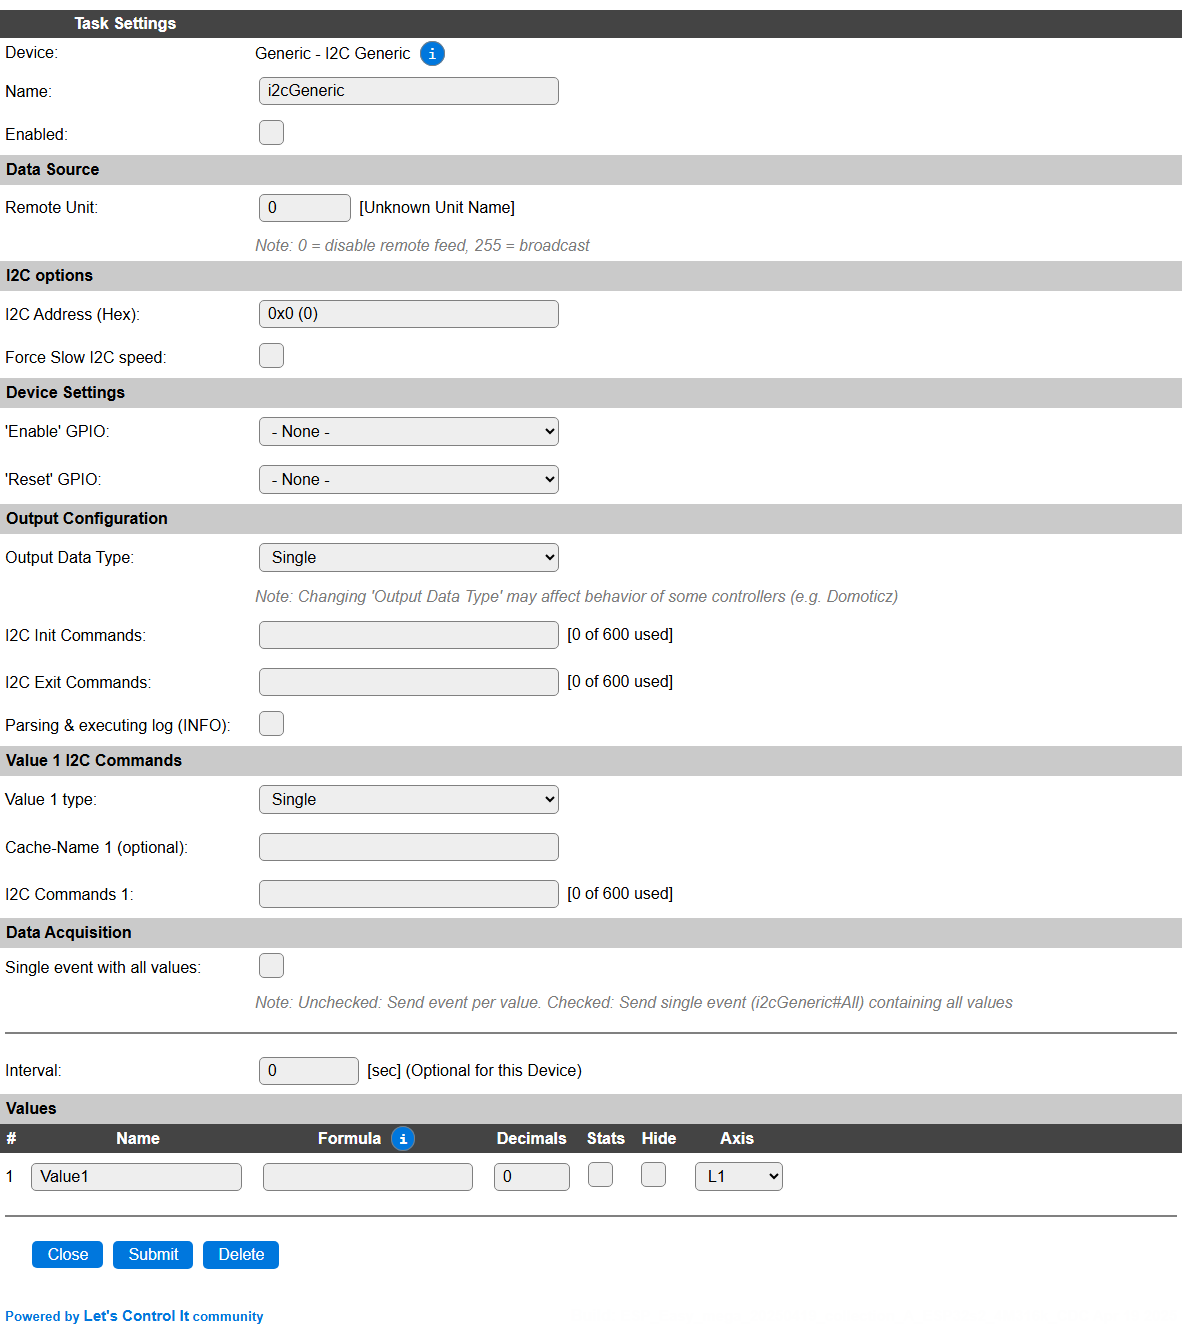
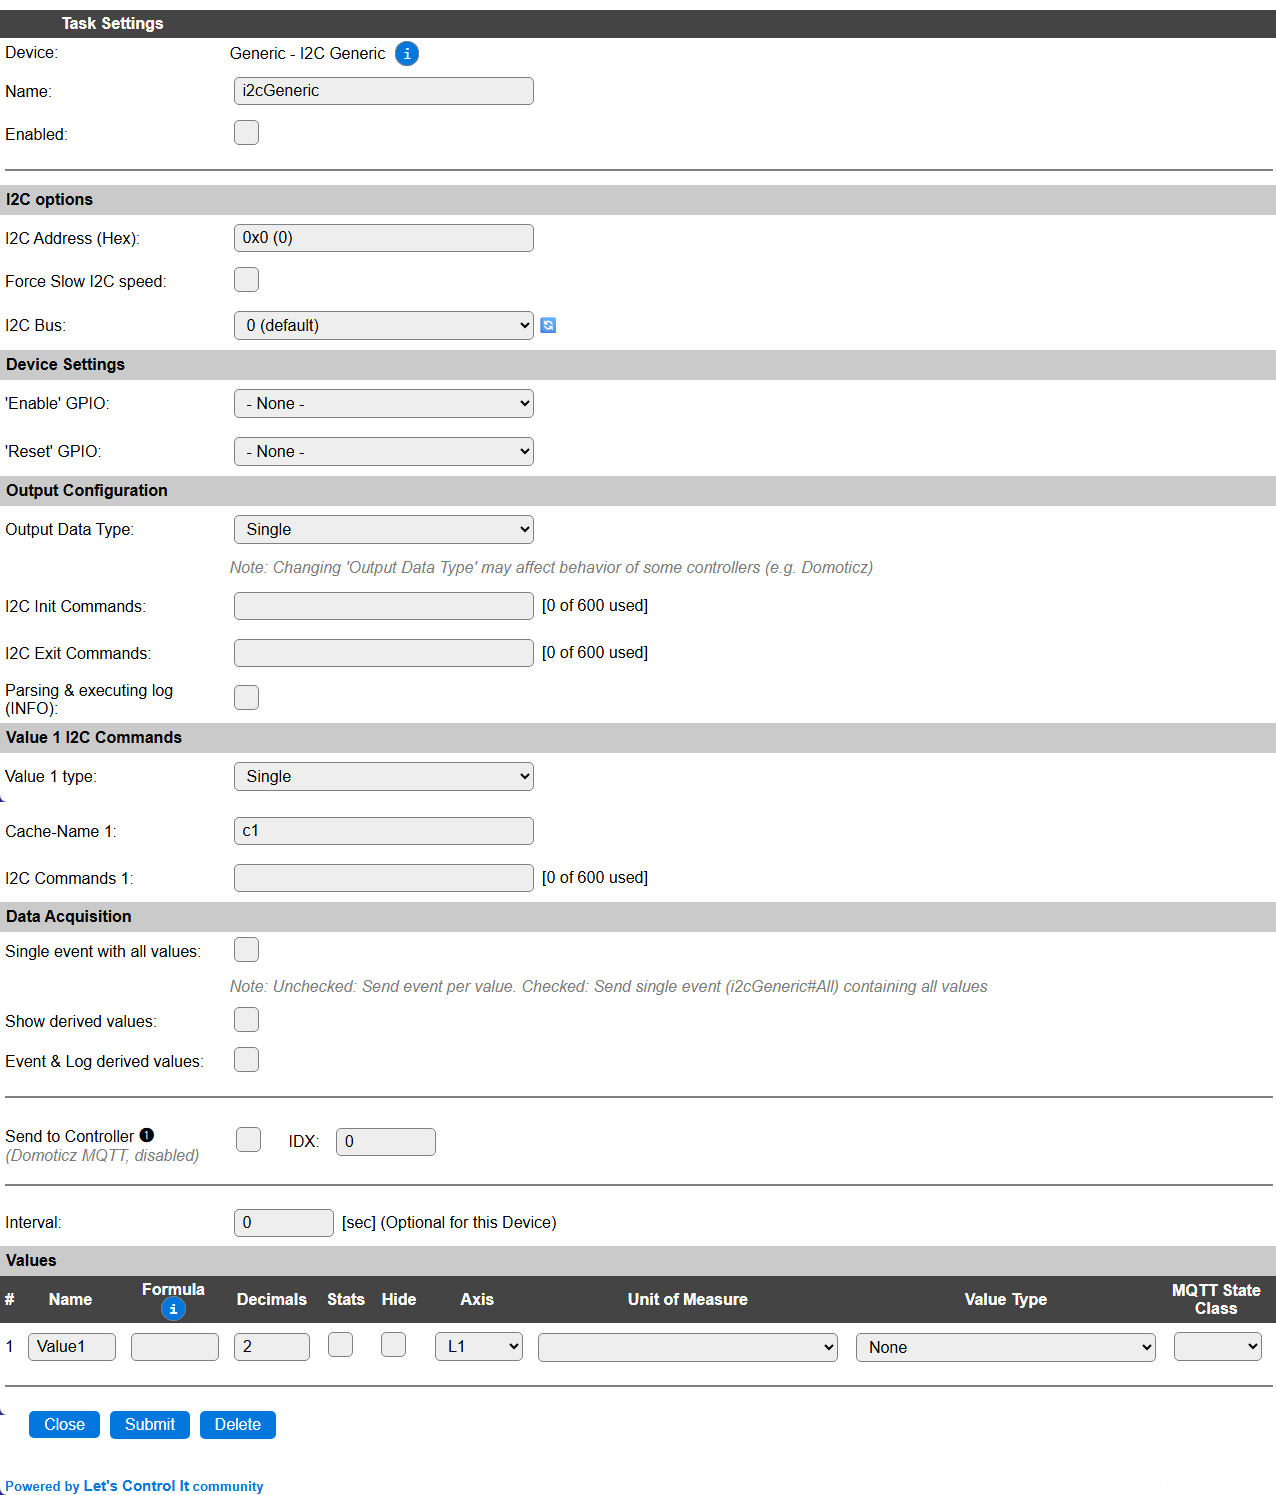
[P180] Set Cache-name field by default when empty for better performance, docs updated

diff --git a/docs/source/Plugin/P180.rst b/docs/source/Plugin/P180.rst
@@ -82,7 +82,7 @@ For each Value1 .. Value4 output, depending on the **Output Data Type** setting,
 
 * **Value x type**: Here you can select a specific output type for each Value. This shows a selection of the **Output Data Type** selector, but only the single-value types. This will also be used for sending to Domoticz controllers and for MQTT Auto-Discovery.
 
-* **Cache-Name x (optional)**: When set to a unique name (for this task), the parsed & pre-processed command sequence will be stored in a memory-cache, to *significantly* improve the speed of the plugin in runtime. When not set, the command sequence will be parsed every time the task is run (**Interval** setting or ``taskRun`` command). To be able to use event processing for 1ps, 10ps of 50ps, setting a Cache-Name is required!
+* **Cache-Name x**: Should be set to a unique name (for this task), so the parsed & pre-processed command sequence will be stored in a memory-cache, to *significantly* improve the speed of the plugin in runtime. Initially the Cache-name is set to ``c1`` .. ``c4`` (depending on the number of values selected) and can be changed as desired. When empty it will be reset to ``cX`` again.
 
 * **I2C Commands x**: The sequence of commands to execute for this value. Nothing will be done if this is empty. The corresponding Value output can be set from another I2C Commands sequence. The currently used vs. the available space is shown next to the field. I2C Commands are explained below.
 
@@ -373,7 +373,7 @@ The plugin should be configured with these settings:
 
 * **Output Data Type**: ``Single``
 
-* **Cache-Name 1 (optional)**: Fill with a useable name, f.e. ``qrsize``, so the I2C Command sequence is cached for much improved execution-performance. And the additional de-duplication uses the ``1ps`` event-interval, and the sequence must be cached for that event to work.
+* **Cache-Name 1**: Fill with a useable name, f.e. ``qrsize``, so the I2C Command sequence is cached for much improved execution-performance. And the additional de-duplication uses the ``1ps`` event-interval, and the sequence must be cached for that event to work.
 
 * **I2C Commands 1**:
 
@@ -455,7 +455,7 @@ The plugin should be configured with these settings:
 
 ``put.b.2.0x3f.0xf9``: Stop continuous measurement.
 
-* **Cache-Name 1 (optional)**: Fill with a useable name, f.e. ``sdp``, so the I2C Command sequence is cached for much improved execution-performance.
+* **Cache-Name 1**: Fill with a useable name, f.e. ``sdp``, so the I2C Command sequence is cached for much improved execution-performance.
 
 * **I2C Commands 1**:
 
@@ -517,7 +517,7 @@ The plugin should be configured with these settings:
 
 * **Values**: the name can be changed to Distance, and the number of decimals 0. Stats can be enabled, as desired. The Unit of Measure should he set to ``cm``, and the Value Type to ``Distance``
 
-* **Cache-Name 1 (optional)**: Fill with a useable name, f.e. ``distance``, so the I2C Command sequence is cached for much improved execution-performance.
+* **Cache-Name 1**: Fill with a useable name, f.e. ``distance``, so the I2C Command sequence is cached for much improved execution-performance.
 
 * **I2C Commands 1**:
 
@@ -544,7 +544,7 @@ The plugin should be configured with these settings:
 
 * **Values**: the first name can be changed to ``Distance``, and the number of decimals 0. Stats can be enabled, as desired. The Unit of Measure should he set to ``cm``, and the Value Type to ``Distance``, the second name can be changed to f.e. ``SignalStrength``, and number of decimals to 0. Stats can be enabled, as desired. No further settings for this value, as it has an undefined unit and value type.
 
-* **Cache-Name 1 (optional)**: Fill with a useable name, f.e. ``distance``, so the I2C Command sequence is cached for much improved execution-performance.
+* **Cache-Name 1**: Fill with a useable name, f.e. ``distance``, so the I2C Command sequence is cached for much improved execution-performance.
 
 * **I2C Commands 1**:
 
@@ -590,15 +590,15 @@ The plugin should be configured with these settings:
 
 ``write.u8.0x0A.0x00``: Set sensor in Suspend mode.
 
-* **Cache-Name 1 (optional)**: Fill with a useable name, f.e. ``x``, so the I2C Command sequence is cached for much improved execution-performance.
+* **Cache-Name 1**: Fill with a useable name, f.e. ``x``, so the I2C Command sequence is cached for much improved execution-performance.
 
 * **I2C Commands 1**: ``read.16le.0x01`` Read 2 bytes starting at register 1, the ``x`` value, and store in first Value field.
 
-* **Cache-Name 2 (optional)**: Fill with a useable name, f.e. ``y``.
+* **Cache-Name 2**: Fill with a useable name, f.e. ``y``.
 
 * **I2C Commands 2**: ``read.16le.0x03`` Read 2 bytes starting at register 3, the ``y`` value, and store in second Value field.
 
-* **Cache-Name 3 (optional)**: Fill with a useable name, f.e. ``z``.
+* **Cache-Name 3**: Fill with a useable name, f.e. ``z``.
 
 * **I2C Commands 3**: ``read.16le.0x05`` Read 2 bytes starting at register 5, the ``z`` value, and store in third Value field.
 
